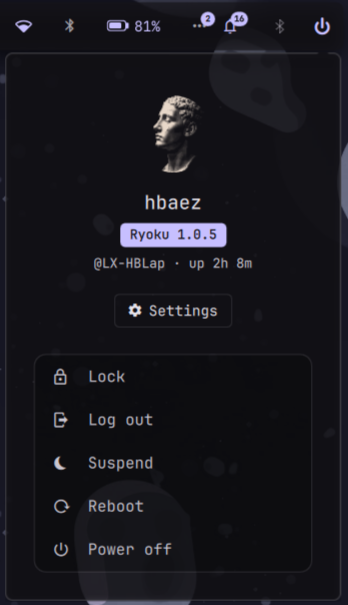
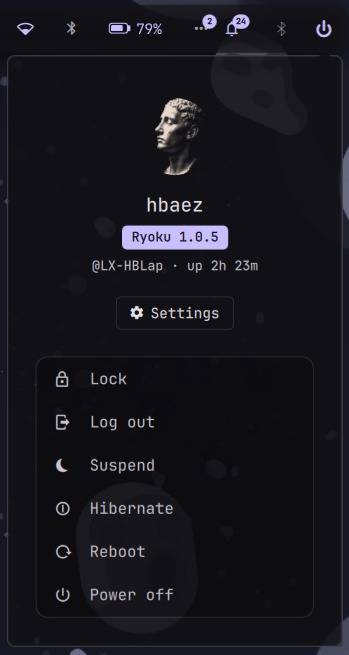
Hibernate waits for the shell's sleep block; hero paths match the Hub; preview with Hibernate

diff --git a/service/Main.qml b/service/Main.qml
@@ -16,8 +16,11 @@ import Quickshell.Io
 //   log out             session.logout on the ryoku-shell daemon socket, the
 //                       same call the shell's own session menu makes
 //   reboot, power off   ryoku-host power reboot / poweroff
-//   hibernate           ryoku-shell lock, then ryoku-host power hibernate
-//                       (inhibitors respected; hidden unless login1 says yes)
+//   hibernate           ryoku-shell lock, wait until login1 reports CanHibernate
+//                       "yes" (the shell lifts its own sleep block once the lock
+//                       is secure), then ryoku-host power hibernate. Inhibitors
+//                       are respected: if something else still blocks sleep,
+//                       it gives up and the session simply stays locked.
 Item {
     id: svc
 
@@ -48,9 +51,13 @@ Item {
         return on;
     }
 
-    // Hibernate is offered only when login1 reports the machine can do it.
+    // Hibernate is offered when login1 reports it possible. While the session is
+    // unlocked the Ryoku shell holds a sleep block (released once the lock
+    // screen is secure), so "inhibited" is the normal answer here and counts as
+    // available; "na", "no" and "challenge" hide the row.
     property string hibernateCapability: ""
     readonly property bool canHibernate: svc.hibernateCapability === "yes"
+        || svc.hibernateCapability === "inhibited"
 
     function parseLogin1Capability(text) {
         var trimmed = String(text || "").trim();
@@ -79,7 +86,8 @@ Item {
             if (!svc.canHibernate)
                 return;
             Quickshell.execDetached(["ryoku-shell", "lock"]);
-            hibernateDelay.restart();
+            svc.hibernateTries = 0;
+            hibernateWait.restart();
             break;
         }
     }
@@ -123,11 +131,37 @@ Item {
         }
     }
 
-    // Give the lock a moment to cover the screen before hibernating.
+    // After locking, poll login1 until nothing blocks sleep (the shell drops its
+    // block once the lock is secure), then hibernate. ~12 s cap, the shell's own
+    // lock budget; past it, give up rather than override an inhibitor.
+    property int hibernateTries: 0
     Timer {
-        id: hibernateDelay
-        interval: 900
-        onTriggered: Quickshell.execDetached(["ryoku-host", "power", "hibernate"])
+        id: hibernateWait
+        interval: 300
+        repeat: true
+        onTriggered: {
+            if (svc.hibernateTries >= 40) {
+                hibernateWait.stop();
+                return;
+            }
+            svc.hibernateTries += 1;
+            if (!hibernateCheck.running)
+                hibernateCheck.running = true;
+        }
+    }
+
+    Process {
+        id: hibernateCheck
+        command: ["busctl", "--system", "call", "org.freedesktop.login1",
+                  "/org/freedesktop/login1", "org.freedesktop.login1.Manager", "CanHibernate"]
+        stdout: StdioCollector {
+            onStreamFinished: {
+                if (hibernateWait.running && svc.parseLogin1Capability(text) === "yes") {
+                    hibernateWait.stop();
+                    Quickshell.execDetached(["ryoku-host", "power", "hibernate"]);
+                }
+            }
+        }
     }
 
     // The ryoku-shell daemon socket: session.logout is registered there and is
@@ -156,7 +190,9 @@ Item {
         onConnectionStateChanged: if (connected) flushQueued()
     }
 
+    // Capability probe for showing the row: at load and on every panel open.
     Process {
+        id: hibernateProbe
         command: ["busctl", "--system", "call", "org.freedesktop.login1",
                   "/org/freedesktop/login1", "org.freedesktop.login1.Manager", "CanHibernate"]
         running: true
@@ -188,17 +224,28 @@ Item {
     readonly property string name: svc.displayName !== "" ? svc.displayName : svc.userName
 
     // Same source rules as the Hub's Profile page (hero.kind).
+    // Same sources as the Hub's Profile page: gallery art in <Pictures>/ryodecors
+    // (localized, e.g. ~/Imágenes), a custom image copied into
+    // <config>/ryoku/profile/, otherwise the bundled bust.
+    readonly property string heroFile: svc.heroSource.split("/").pop()
     readonly property string avatarPath: {
         if (svc.heroKind === "gallery")
-            return svc.heroSource !== "" ? svc.home + "/Pictures/ryodecors/" + svc.heroSource : "";
-        if (svc.heroKind === "custom") {
-            if (svc.heroSource.indexOf("~/") === 0)
-                return svc.home + svc.heroSource.slice(1);
-            if (svc.heroSource.indexOf("/") === 0)
-                return svc.heroSource;
-            return "";
-        }
+            return svc.heroFile !== "" ? svc.picturesDir + "/ryodecors/" + svc.heroFile : "";
+        if (svc.heroKind === "custom")
+            return svc.heroFile !== "" ? svc.configHome + "/ryoku/profile/" + svc.heroFile : "";
         return svc.configHome + "/quickshell/hub/art/profile-hero.png";
+    }
+
+    // XDG Pictures folder from ~/.config/user-dirs.dirs, as the Hub resolves it.
+    property string picturesDir: svc.home + "/Pictures"
+
+    function parseUserDirs(raw) {
+        var m = String(raw || "").match(/^XDG_PICTURES_DIR="([^"]*)"/m);
+        if (!m)
+            return;
+        var dir = m[1].replace(/^\$HOME/, svc.home);
+        if (dir.indexOf("/") === 0)
+            svc.picturesDir = dir.replace(/\/+$/, "");
     }
 
     readonly property string subtitle: {
@@ -258,6 +305,8 @@ Item {
 
     // Called when the panel opens; cheap, one-shot reads.
     function refresh() {
+        if (!hibernateProbe.running)
+            hibernateProbe.running = true;
         profileFile.reload();
         if (svc.version === "" && !versionProc.running)
             versionProc.running = true;
@@ -265,6 +314,12 @@ Item {
             hostProc.running = true;
         if (!uptimeProc.running)
             uptimeProc.running = true;
+    }
+
+    FileView {
+        id: userDirsFile
+        path: svc.configHome + "/user-dirs.dirs"
+        onLoaded: svc.parseUserDirs(text())
     }
 
     FileView {

diff --git a/README.md b/README.md
@@ -12,7 +12,8 @@ version and uptime, a Settings button, and the six session actions.
 - **Panel** — avatar and name from the Hub's Profile page, a Ryoku version
   badge, `@hostname · up …`, a Settings button that opens the Hub, then Lock,
   Log out, Suspend, Hibernate, Reboot and Power off in one group. Hibernate is
-  shown only when login1 reports the machine can hibernate. With "Ask before
+  shown when login1 reports it possible (`yes`, or `inhibited` by the shell's
+  own sleep block, which lifts once the screen is locked). With "Ask before
   acting" on, every action except Lock needs a second click within four
   seconds; closing the panel always drops an armed action. Every colour comes
   from the plugin kit `Theme`, so it follows the Ryoku theme and wallpaper.
@@ -46,22 +47,25 @@ it under **QS Bar Settings → Community**.
 
 | Command | When |
 | --- | --- |
-| `ryoku-shell lock` | Lock click, or immediately before hibernating |
+| `ryoku-shell lock` | Lock click, or first step of a confirmed Hibernate |
 | `ryoku-shell suspend` | Confirmed Suspend (the shell locks first) |
 | `call session.logout {}` on `$XDG_RUNTIME_DIR/ryoku-shell.sock` | Confirmed Log out (the same call the shell's own session menu makes) |
 | `ryoku-host power reboot` | Confirmed Reboot |
 | `ryoku-host power poweroff` | Confirmed Power off |
-| `ryoku-host power hibernate` | 900 ms after locking, from a confirmed Hibernate; inhibitors are respected |
+| `ryoku-host power hibernate` | Confirmed Hibernate, once login1 reports `CanHibernate` = `yes` after locking (polled every 300 ms, up to about 12 s). Inhibitors are respected: if another app still blocks sleep, it gives up and the session stays locked |
 | `ryoku-shell hub open` | Settings button |
-| `busctl --system call org.freedesktop.login1 /org/freedesktop/login1 org.freedesktop.login1.Manager CanHibernate` | Once when the service loads |
+| `busctl --system call org.freedesktop.login1 /org/freedesktop/login1 org.freedesktop.login1.Manager CanHibernate` | When the service loads and when the panel opens (to show the row), and while waiting to hibernate |
 | `ryoku-host pkg version ryoku` | When the panel opens (version badge) |
 | `uname -n`, `cat /proc/uptime` | When the panel opens (hostname, uptime) |
 
 ### What it reads
 
 `~/.config/ryoku/profile.json` (`text.name` and the `hero` settings) and the
-image it points at: the Hub's bundled `profile-hero.png`, a file in
-`~/Pictures/ryodecors/`, or the custom path.
+image it points at, the same way the Hub's Profile page does: the bundled
+`profile-hero.png`, a gallery image in `<Pictures>/ryodecors/`, or a custom
+image in `~/.config/ryoku/profile/`. The Pictures folder comes from
+`~/.config/user-dirs.dirs`, so a localized folder such as `~/Imágenes` works.
+With no `profile.json`, the name falls back to your login name, as in the Hub.
 
 ### What it never does
 
